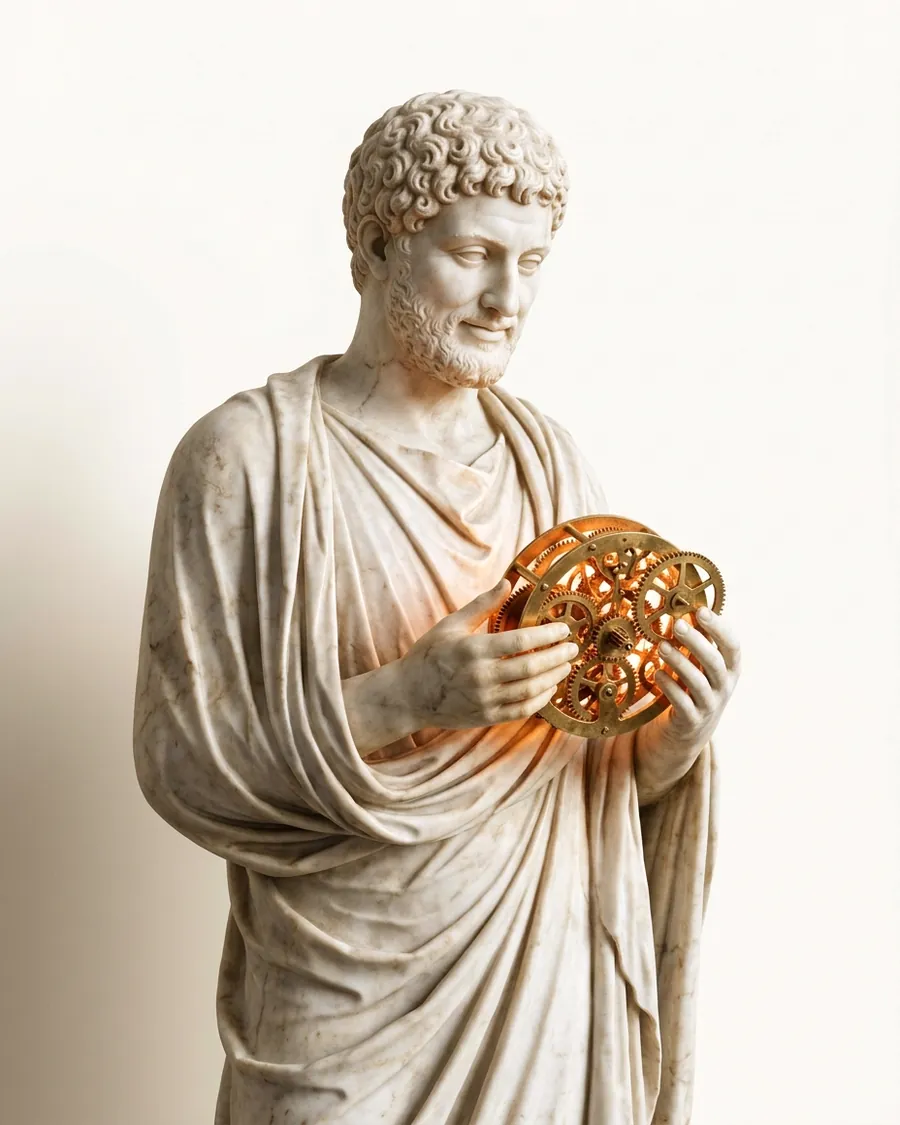
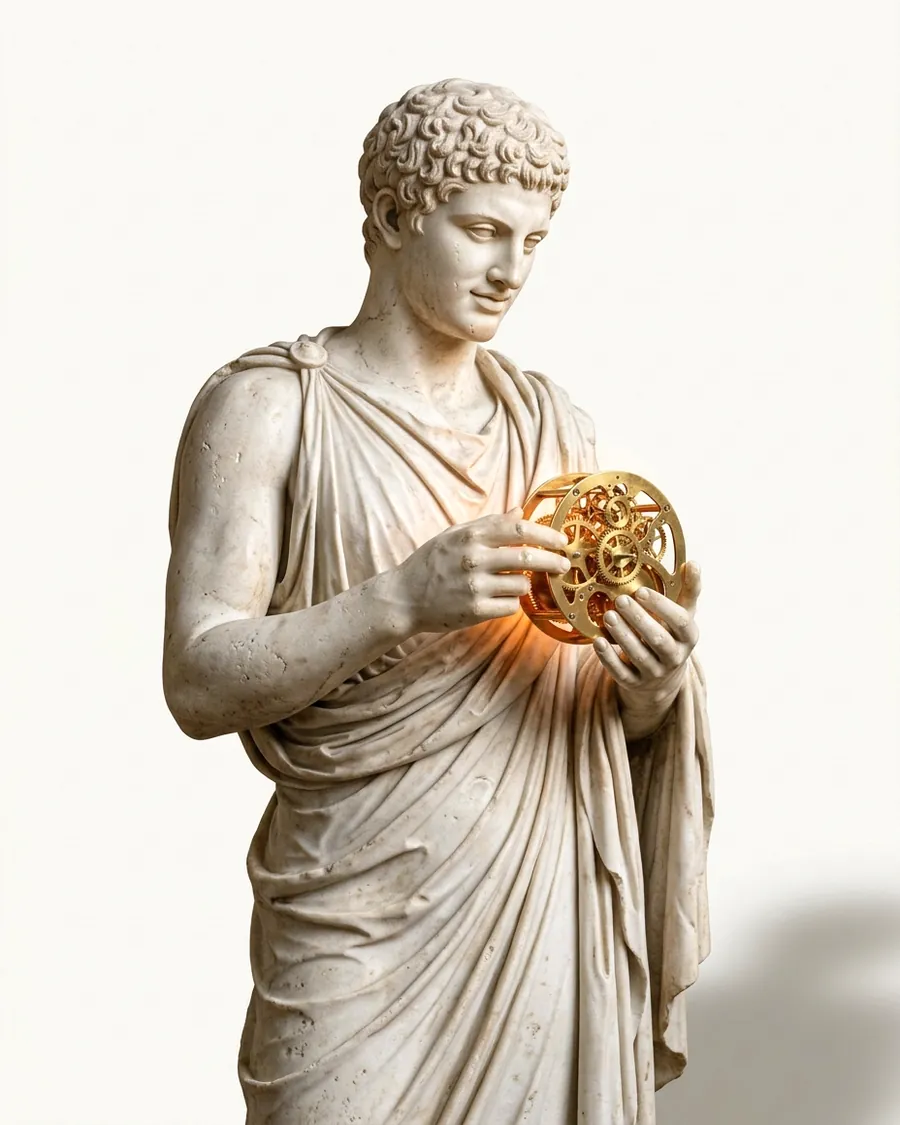
AI & automation page: young Greek statue holding gears
Claude-Session: https://claude.ai/code/session_01M8mVGnhN6MYozZihRYpNZH

diff --git a/site/services/ai-automation/index.html b/site/services/ai-automation/index.html
@@ -18,7 +18,7 @@
   .crumb a { color: var(--ink-3); } .crumb a:hover { color: var(--clay); }
   .hero.svc h1 { font-size: clamp(46px, 5.6vw, 84px); }
   .hero.svc .statue { object-position: center bottom; }
-  .gear-glow { position: absolute; left: 60%; top: 50%; width: 120px; height: 120px; border-radius: 50%; background: radial-gradient(circle, rgba(255,150,80,.55), rgba(255,150,80,0) 70%); filter: blur(8px); animation: breathe2 3s ease-in-out infinite; pointer-events: none; mix-blend-mode: multiply; }
+  .gear-glow { position: absolute; left: 58%; top: 42%; width: 120px; height: 120px; border-radius: 50%; background: radial-gradient(circle, rgba(255,150,80,.55), rgba(255,150,80,0) 70%); filter: blur(8px); animation: breathe2 3s ease-in-out infinite; pointer-events: none; mix-blend-mode: multiply; }
   @keyframes breathe2 { 50% { transform: scale(1.35); opacity: .6; } }
   /* viz: response time */
   .viz-resp .row { display: grid; grid-template-columns: 92px 1fr 64px; align-items: center; gap: 10px; font-size: 12.5px; color: var(--ink-3); margin: 6px 0; }
@@ -112,7 +112,7 @@
       <div class="stage" id="stage">
         <div class="sun"></div>
         <div class="sun-rays"></div>
-        <img class="statue" src="/img/talos.webp" alt="Marble statue of Talos holding a glowing brass clockwork of gears" width="900" height="1125">
+        <img class="statue" src="/img/talos.webp" alt="Marble statue of a young Greek man holding a glowing brass clockwork of gears" width="900" height="1125">
         <div class="gear-glow" aria-hidden="true"></div>
         <div class="chip f1" style="--fd:0s"><span class="ck"><svg viewBox="0 0 16 16"><path d="M3 8.5l3 3 7-7"/></svg></span><span><b>Lead answered</b><small>2:00 AM · 44 sec</small></span></div>
         <div class="chip f2" style="--fd:1.2s"><span class="ck"><svg viewBox="0 0 16 16"><path d="M3 8.5l3 3 7-7"/></svg></span><span><b>CRM updated</b><small>no copy-paste</small></span></div>
